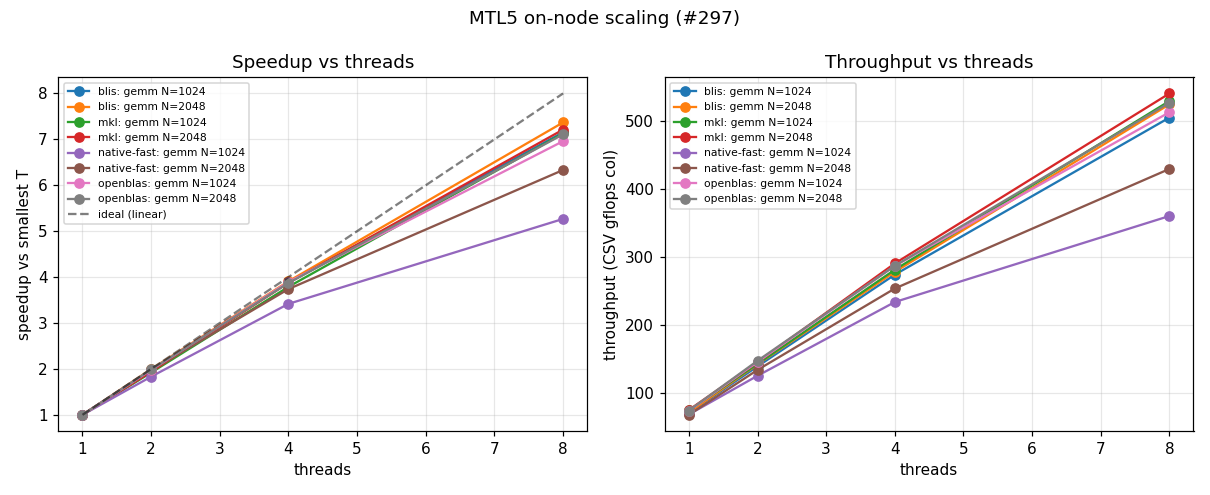
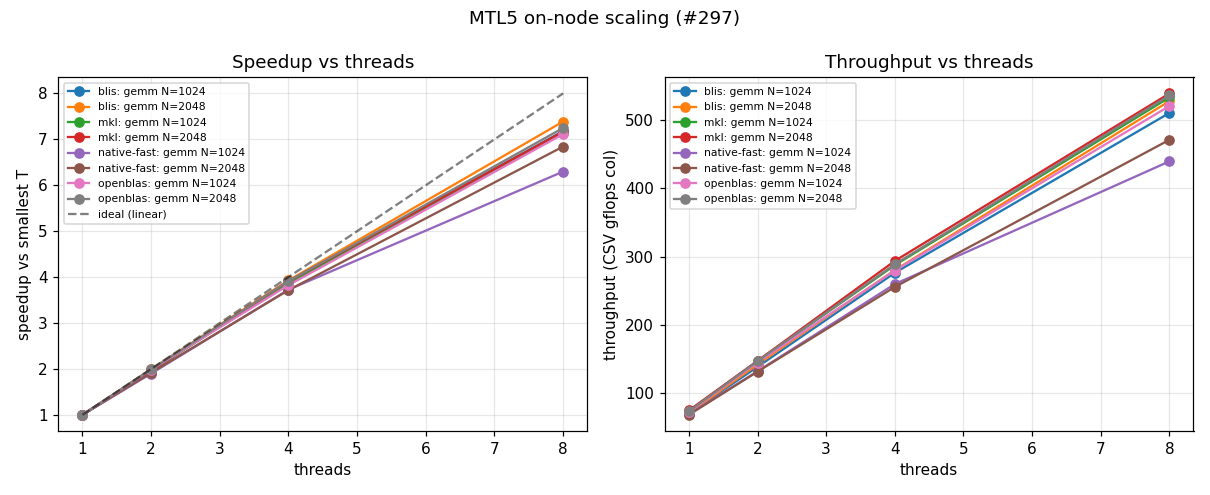
docs(benchmarks): re-measure GEMM scaling after #410 (#411)
#410 fixed the scaling regression #382 introduced, so the scaling
section was stale in the other direction. Re-ran run_scaling.sh on
f3cde1a, all four backends in one session.

  8 P-cores, GFLOP/s          N=1024    N=2048   efficiency(2048)
    pre-#382                   388.9     401.8      90.5%
    after #382                 360.2     429.4      79.2%
    after #410                 439.4     470.9      85.5%

The N=1024 regression is gone (+22.0% against #382) and absolute
throughput is the highest measured on this machine at both sizes.

What is NOT claimed: native-fast is still the worst scaler of the four
(BLIS 7.39x, OpenBLAS 7.25x, MKL 7.17x, native-fast 6.84x), and
efficiency is short of the pre-#382 era's 90.5%. That finding is
softened, not withdrawn. Part of the gap is arithmetic -- efficiency
divides by a T=1 baseline #382 raised 22%, so identical parallel
machinery scores lower -- but not all of it: at 2 and 4 threads
native-fast reaches 1.92x/3.72x where every vendor is at
1.97-1.99x/3.91-3.93x. Whatever remains is in the parallel path rather
than the kernel, and no issue tracks it yet.

Also retracts the CAUSE the page previously offered for the regression.
It suggested cache pressure from the larger register tile, explicitly
flagged there as untested; #410 found the real mechanism (mc rounded to
a multiple of mr, coupling a cache block size to the register tile) and
the page now carries that with its ic-block/critical-path table.
[…]

diff --git a/docs/benchmarks/i7-12700k.md b/docs/benchmarks/i7-12700k.md
@@ -9,9 +9,16 @@ section:
 
 | Section | Measured | Why |
 |---|---|---|
-| Dense BLAS sweep, GEMM scaling | **2026-08-05** | Re-taken after the register-tile change (#382) |
+| GEMM scaling | **2026-08-05 (second pass)** | Re-taken again after #410 fixed the scaling regression #382 introduced |
+| Dense BLAS sweep | **2026-08-05** | Re-taken after the register-tile change (#382) |
 | LAPACK sweep, sparse scoreboards | 2026-08-01 | #382 is gated behind `MTL5_NATIVE_FAST_GEMM`; these are the generic `native` build and vendors, so it cannot reach them |
 | #297 kernel families | 2026-08-03 | Re-taken after the parallel B-pack change (#348) |
+
+The single-threaded BLAS sweep is deliberately **not** re-taken in the second
+pass: `balanced_mc` only engages when `ic_nt > 1`, so #410 cannot reach the
+serial path. That gives the second pass a built-in control — native-fast's
+`T = 1` scaling figure moved 67.81 → 68.82 GFLOP/s at N = 2048, inside the ~4%
+session band, which is what "the serial path is untouched" should look like.
 
 The 2026-08-05 pass re-ran **all five backends in one session**, not just
 `native-fast`. The headline claim is a *ratio* of native-fast to OpenBLAS, and a
@@ -49,15 +56,22 @@ for one desktop hybrid CPU, not a portable performance claim.
 - **The generic C++ path is ~16× slower than native-fast** on GEMM (4.5 vs 70
   GFLOP/s at N = 1025). The SIMD/blocked path is what makes MTL5 competitive at
   all, and #382 widened this gap rather than narrowing it.
-- **native-fast is now the WORST multi-core scaler of the four**, at 6.33× on
-  8 P-cores (79.2% efficiency) against BLIS 7.37×, MKL 7.21× and OpenBLAS 7.11×.
+- **Multi-core GEMM throughput is the highest measured on this machine** —
+  470.9 GFLOP/s at N = 2048 on 8 P-cores, against 429.4 before #410 and 401.8
+  before #382. But **native-fast is still the worst *scaler* of the four**, at
+  6.84× / 85.5% efficiency against BLIS 7.39×, OpenBLAS 7.25× and MKL 7.17×.
 
-  > **Retracted:** this page previously reported native-fast as the *best*
-  > scaler at 7.24× / 90.5%. That is no longer true, and the cause is #382
-  > itself — see [what #382 did to scaling](#what-382-did-to-scaling). The
-  > single-thread baseline rose 22%, so the same absolute multi-core throughput
-  > now divides into a worse efficiency; and at N = 1024 the 8-thread number is
-  > an outright **regression**, −7.4%. Tracked in #408.
+  > **Two corrections, in opposite directions.** This page once reported
+  > native-fast as the *best* scaler (7.24× / 90.5%); #382 broke that, and the
+  > previous revision recorded it as the worst at 6.33× / 79.2% with an outright
+  > **−7.4% regression** at N = 1024. #410 fixed the cause — see
+  > [what #382 and #410 did to scaling](#what-382-and-410-did-to-scaling) — and
+  > the N = 1024 regression is gone (+22% against #382). But efficiency is
+  > **85.5%, not the 90.5% of the pre-#382 era**, and still last of four. So the
+  > "worst scaler" finding stands, softened; only the regression is retracted.
+  > Part of the remaining gap is arithmetic rather than a defect: efficiency is
+  > measured against a `T = 1` baseline that #382 raised 22%, so the same
+  > parallel machinery divides into a lower number.
 - **Native LAPACK is an order of magnitude behind vendors** — 1.2–6.7 GFLOP/s vs
   50–60. The factorizations do not have a tuned path.
 - **Sparse triangular solves do not scale**, in any structure. This *reproduces*
@@ -291,39 +305,54 @@ excluded), one process per thread count.
 
 | T | native-fast | blis | openblas | mkl |
 |---:|---|---|---|---|
-| 1 | 67.8 (1.00×) | 71.2 (1.00×) | 74.1 (1.00×) | 74.9 (1.00×) |
-| 2 | 133.9 (1.97×) | 141.9 (1.99×) | 147.3 (1.99×) | 145.3 (1.94×) |
-| 4 | 253.6 (3.74×) | 278.1 (3.91×) | 286.9 (3.87×) | 290.4 (3.88×) |
-| 8 | 429.4 (**6.33×**) | **524.4 (7.37×)** | 526.8 (7.11×) | 540.4 (7.21×) |
+| 1 | 68.8 (1.00×) | 71.4 (1.00×) | 73.9 (1.00×) | 75.2 (1.00×) |
+| 2 | 132.0 (1.92×) | 142.4 (1.99×) | 147.3 (1.99×) | 147.7 (1.97×) |
+| 4 | 255.7 (3.72×) | 280.4 (3.93×) | 289.0 (3.91×) | 293.8 (3.91×) |
+| 8 | 470.9 (**6.84×**) | 527.4 (**7.39×**) | 535.7 (7.25×) | 538.6 (7.17×) |
 
-### What #382 did to scaling
+### What #382 and #410 did to scaling
 
-**Retracted: native-fast is no longer the best scaler; it is now the worst of the
-four.** At 6.33× / **79.2% parallel efficiency** it sits behind BLIS (7.37×),
-MKL (7.21×) and OpenBLAS (7.11×). The previous revision reported 7.24× / 90.5%.
+Three measurement dates on the same table, so the story is worth stating once in
+full. GFLOP/s at 8 P-cores, and the parallel efficiency each implies:
 
-This is a direct consequence of #382, and the per-thread deltas show it clearly:
+| | N = 1024 | N = 2048 | efficiency (N = 2048) |
+|---|---:|---:|---:|
+| pre-#382 | 388.9 | 401.8 | 90.5% |
+| after #382 | 360.2 (**−7.4%**) | 429.4 (+6.9%) | 79.2% |
+| after #410 | **439.4** (+22.0% vs #382) | **470.9** (+9.7% vs #382) | **85.5%** |
 
-| T | N = 1024 | N = 2048 |
-|---:|---:|---:|
-| 1 | **+21.5%** | **+22.3%** |
-| 2 | +9.6% | +19.9% |
-| 4 | +3.6% | +17.3% |
-| 8 | **−7.4%** | +6.9% |
+**#382 broke it.** Its single-thread gain decayed monotonically with thread
+count — +21.5%, +9.6%, +3.6%, **−7.4%** at N = 1024 — going outright negative at
+8 threads. The issue filed for it guessed cache pressure from the larger
+register tile. **That guess was wrong**, and the page said at the time that it
+was untested; it is now retracted outright.
 
-The gain decays monotonically with thread count, and at N = 1024 with 8 threads
-it goes **negative** — an absolute regression, 388.9 → 360.2 GFLOP/s. So two
-things are true at once: the serial kernel got much faster (which is why the #82
-gate now reads 97.4%), and the parallel efficiency got worse, partly because the
-same speedup is being measured against a 22% higher single-thread baseline and
-partly because at the smaller size the multi-core result actually fell.
+**The actual cause was a coupling, not a cost.** `mc` was rounded down to a
+multiple of `mr`, tying a *cache* block size to the *register tile*. The L2
+budget yields exactly 64, which survives `mr = 4` but drops to 60 under #382's
+`mr = 6`. Since the threaded nest hands ic-blocks to the team round-robin, the
+block count is what sets the critical path:
 
-A plausible mechanism is that the larger register tile raises each thread's
-working set, so eight threads contend for cache and bandwidth in a way one
-thread does not — which would also explain why the regression appears at
-N = 1024 before N = 2048. **This page does not claim that**; it was not tested,
-and the one hypothesis that *was* tested on this page (the MKL frequency story
-above) turned out to be wrong. Tracked in **#408**.
+| N | mc | ic-blocks | most-loaded thread | ideal | ratio |
+|---:|---:|---:|---:|---:|---:|
+| 1024 | 64 | 16 | 128 rows | 128 | 1.000 |
+| 1024 | 60 | 18 | 180 rows | 128 | **1.406** |
+| 2048 | 64 | 32 | 256 rows | 256 | 1.000 |
+| 2048 | 60 | 35 | 300 rows | 256 | **1.172** |
+
+Worse at the smaller size — which is exactly the sign flip observed. #410
+decouples `mc` from the register tile and chooses the ic-block size at runtime,
+where `m` and the thread count are known (#408, #410).
+
+**What is fixed, and what is not.** The N = 1024 regression is gone, and absolute
+throughput is now the highest measured on this machine at both sizes. But
+efficiency is **85.5%, not the 90.5% of the pre-#382 era**, and native-fast is
+still last of the four scalers. Part of that is arithmetic — efficiency divides
+by a `T = 1` baseline that #382 raised 22%, so identical parallel machinery
+scores lower — but not all of it: at 2 and 4 threads native-fast reaches 1.92×
+and 3.72× where all three vendors are at 1.97–1.99× and 3.91–3.93×. Whatever
+remains is in the parallel path, not the kernel, and is not tracked by an open
+issue yet.
 
 The earlier serial-region fix still stands on its own: inside each jc-team only
 the leader packed the shared B panel while the rest waited on the barrier — at
@@ -333,10 +362,19 @@ packed data feeds.
 
 **Retracted: "threading is no longer what separates native-fast from the tuned
 libraries."** That claim rested on the relative throughput being flat across
-thread counts (75.5% at T=1, 76.4% at T=8). It is no longer flat: native-fast is
-now **91.5% of OpenBLAS at one thread but 81.5% at eight**. The differentiator
-has moved from the single-core kernel to the parallel path — the reverse of what
-this section said before.
+thread counts (75.5% at T = 1, 76.4% at T = 8). Tracking it across the three
+dates, against OpenBLAS at N = 2048:
+
+| | T = 1 | T = 8 | spread |
+|---|---:|---:|---:|
+| pre-#382 | 75.5% | 76.4% | flat |
+| after #382 | 91.5% | 81.5% | 10 pt |
+| after #410 | **93.1%** | **87.9%** | 6 pt |
+
+#410 recovers most of the gap but does not restore the flatness, so the claim
+stays retracted. The honest reading is the reverse of the original: the
+single-core kernel is now the *strong* side at 93% of OpenBLAS, and the parallel
+path is what gives ground as threads are added.
 
 ## Threaded kernel families (#297)
 

diff --git a/CHANGELOG.md b/CHANGELOG.md
@@ -34,6 +34,7 @@ Format follows [Conventional Commits](https://www.conventionalcommits.org/).
 - **Blocked GEMM parallel efficiency 79% → 91%** on 8 physical cores. The shared B panel was packed by each jc-team's leader while the rest of the team waited on the barrier — a serial region proportional to `kc·nc` per `pc` step (at N=2048 with a team of 8, one thread packed ~67 MB while seven idled). The team now splits the NR-column panels; packing is pure data movement into disjoint offsets, so the packed bytes and the result are unchanged (#348)
 
 ### Changed
+- **i7-12700K GEMM scaling re-measured a second time after #410** (2026-08-05). Multi-core throughput is now the highest recorded on this machine — 470.9 GFLOP/s at N = 2048 on 8 P-cores against 429.4 before #410 and 401.8 before #382 — and the −7.4% regression at N = 1024 is gone (+22.0%). **The "native-fast is the worst scaler" finding is softened, not withdrawn**: efficiency is 85.5%, up from 79.2% but still short of the pre-#382 era's 90.5% and last of the four backends. Part of that is arithmetic — efficiency divides by a `T = 1` baseline #382 raised 22% — but not all: at 2 and 4 threads native-fast reaches 1.92×/3.72× where every vendor is at 1.97–1.99×/3.91–3.93×, so something remains in the parallel path and is not yet tracked by an issue. The page also retracts the *cause* it previously offered for the regression (cache pressure from the larger register tile, flagged there as untested) in favour of the coupling #410 actually found. The single-threaded BLAS sweep was deliberately not re-run — `balanced_mc` only engages when `ic_nt > 1` — which gives a control: native-fast's `T = 1` figure moved 67.81 → 68.82, inside the ~4% session band
 - **i7-12700K benchmark data re-measured after #382** (2026-08-05). All five backends were re-run in one session rather than only `native-fast`, because the headline claim is a *ratio* to OpenBLAS and a ratio is only defensible when both sides come from the same session — and because the three untouched backends holding still (`native` ±0.3, `openblas` ±0.2, `blis` ±0.6 GFLOP/s) is what makes the `native-fast` move attributable rather than machine drift. GEMM at N = 1025: **59.44 → 69.81 GFLOP/s (+17.4%)**, and the epic #82 gate moves from 82.3% to **97.4%** of OpenBLAS (range 95.5–98.8%, previously 76.3–86.5%) — the single-core kernel is now at parity, not "inside the 10–20% target". The LAPACK sweep and sparse scoreboards were deliberately *not* re-run: `blocking.hpp` is gated behind `MTL5_NATIVE_FAST_GEMM`, so #382 cannot reach them
 - **Three findings on the benchmark page are retracted in place rather than silently overwritten**, per its provenance discipline: (1) *"native-fast now scales better than OpenBLAS and MKL"* — it is now the **worst** of the four at 6.33× / 79.2% efficiency against BLIS 7.37×, MKL 7.21×, OpenBLAS 7.11%, because #382's single-thread gain decays with thread count and turns **negative at N = 1024 / 8 threads (−7.4%)**, filed as #408; (2) *"threading is no longer what separates native-fast from the tuned libraries"* — relative throughput is no longer flat, 91.5% of OpenBLAS at T=1 against 81.5% at T=8, so the differentiator moved to the parallel path; (3) *"MKL is remarkably weak at small N"* — 17.5 GFLOP/s at N = 65 did not reproduce, measuring 60.8–71.4 across four independent runs with the MKL version unchanged since 2026-07-07 and large-N identical. The obvious explanation for (3) — a cold P-core at its 800 MHz idle clock — was **tested and refuted** (60.8 cold vs 61.0 warm), so the cause is recorded as undetermined rather than replaced with an untested story. `axpy` also moved +37% with no commit in the window that touches it, likewise marked undetermined
 
